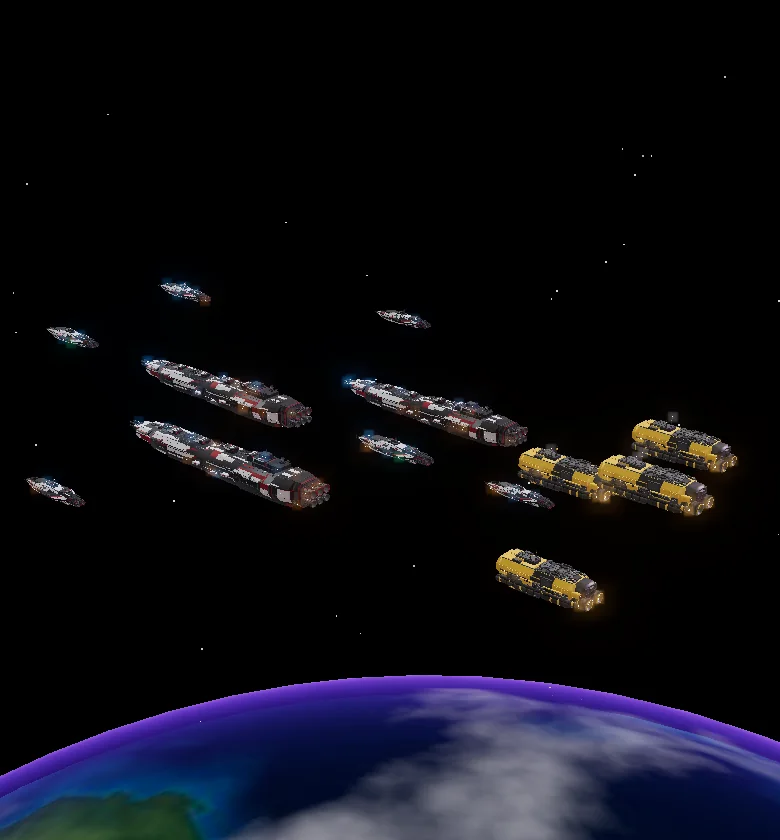
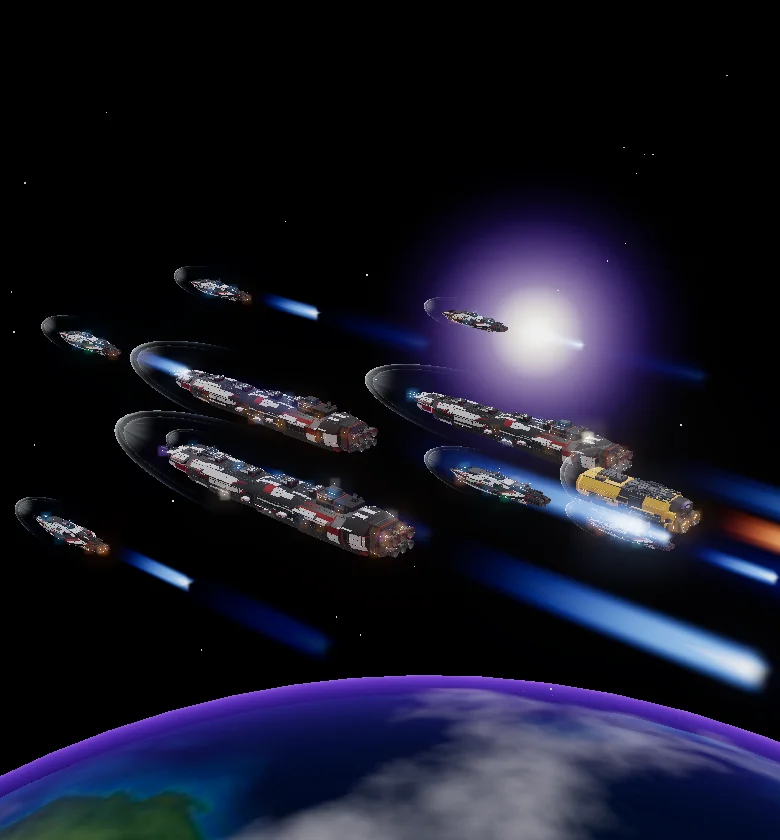
Site : flotte en vol (un seul tanker, halos de choc, traînées de réacteur) avec soleil à contre-jour
Claude-Session: https://claude.ai/code/session_01JwVMoGh2JMgLgKoMzT7wbx

Changed region(s): [[0.0308, 0.2167, 1.0, 0.8357], [0.0, 0.5571, 0.2462, 0.7119], [0.2769, 0.7119, 0.4308, 0.8048]]

diff --git a/site/index.html b/site/index.html
@@ -798,6 +798,81 @@ function starfield(n, r) {
   return new THREE.Points(g, new THREE.PointsMaterial({ size: 1.6, sizeAttenuation: false, vertexColors: true, transparent: true, opacity: 0.9, depthWrite: false }));
 }
 
+
+// ---------- Effets de vol (inspirés des fiches vaisseaux du jeu) ----------
+const FX_T = { value: 0 };
+const FX_COL = {
+  blue:   { core: new THREE.Color(0xe6f3ff), mid: new THREE.Color(0x6fa8ff), edge: new THREE.Color(0x2a5cff) },
+  orange: { core: new THREE.Color(0xfff2d8), mid: new THREE.Color(0xffa060), edge: new THREE.Color(0xff5a1a) },
+};
+function shockMaterial(gain) {
+  return new THREE.ShaderMaterial({
+    transparent: true, depthWrite: false, blending: THREE.AdditiveBlending, side: THREE.DoubleSide,
+    uniforms: { uTime: FX_T, uGain: { value: gain } },
+    vertexShader: 'varying vec3 vP; varying vec3 vN; varying vec3 vV; void main(){ vP = position; vec4 mv = modelViewMatrix*vec4(position,1.0); vN = normalize(normalMatrix*normal); vV = normalize(-mv.xyz); gl_Position = projectionMatrix*mv; }',
+    fragmentShader: `uniform float uTime, uGain; varying vec3 vP; varying vec3 vN; varying vec3 vV;
+      float h(vec2 p){ return fract(sin(dot(p, vec2(12.9898,78.233)))*43758.5453); }
+      float n(vec2 p){ vec2 i=floor(p), f=fract(p); f=f*f*(3.0-2.0*f); return mix(mix(h(i),h(i+vec2(1,0)),f.x),mix(h(i+vec2(0,1)),h(i+vec2(1,1)),f.x),f.y); }
+      void main(){
+        float z = vP.z;                                   // +1 = proue, -1 = poupe (sphère unité)
+        float fres = pow(1.0 - abs(dot(normalize(vN), normalize(vV))), 2.2);
+        float nose = smoothstep(0.2, 1.0, z);
+        float ang = atan(vP.y, vP.x);
+        float streak = n(vec2(ang*6.0, z*3.0 + uTime*2.2));
+        float front = smoothstep(-0.1, 0.95, z);           // l'onde de choc vit à l'avant, s'efface vers le milieu
+        float inten = (pow(fres, 1.6) * front + smoothstep(0.82, 1.0, z) * 0.7) * (0.55 + 0.6*streak);
+        vec3 hot = vec3(0.9,0.95,1.0), blue = vec3(0.35,0.55,1.0), vio = vec3(0.58,0.22,1.0);
+        vec3 col = mix(mix(blue, hot, nose), vio, smoothstep(0.2, -0.8, z));
+        float a = uGain * inten;
+        gl_FragColor = vec4(col*a, a);
+      }`
+  });
+}
+function plumeMaterial(pal, gain) {
+  return new THREE.ShaderMaterial({
+    transparent: true, depthWrite: false, blending: THREE.AdditiveBlending, side: THREE.DoubleSide,
+    uniforms: { uTime: FX_T, uGain: { value: gain }, uCore: { value: pal.core }, uMid: { value: pal.mid }, uEdge: { value: pal.edge }, uSeed: { value: Math.random()*10.0 } },
+    vertexShader: 'varying vec2 vUv; void main(){ vUv = uv; gl_Position = projectionMatrix*modelViewMatrix*vec4(position,1.0); }',
+    fragmentShader: `uniform float uTime, uGain, uSeed; uniform vec3 uCore, uMid, uEdge; varying vec2 vUv;
+      void main(){
+        float t = vUv.y;                                  // 0 = tuyère, 1 = bout de la traînée
+        float r = abs(vUv.x - 0.5) * 2.0;                 // 0 = axe, 1 = bord
+        float flick = 0.85 + 0.15*sin(uTime*23.0 + uSeed) * sin(uTime*7.0 + uSeed*3.0);
+        float body = smoothstep(0.0, 0.07, t) * (1.0 - smoothstep(0.0, 1.0, t)) * (1.0 - smoothstep(0.15 + 0.6*t, 1.0, r));
+        vec3 col = mix(mix(uCore, uMid, smoothstep(0.0, 0.25, t + r*0.3)), uEdge, smoothstep(0.3, 0.9, t + r*0.2));
+        float a = uGain * body * flick;
+        gl_FragColor = vec4(col*a, a);
+      }`
+  });
+}
+function glowSprite(color, size) {
+  const c = document.createElement('canvas'); c.width = c.height = 256;
+  const g = c.getContext('2d'), r = g.createRadialGradient(128,128,0,128,128,128);
+  r.addColorStop(0, 'rgba(255,255,255,1)'); r.addColorStop(0.08, 'rgba(255,246,232,0.95)');
+  r.addColorStop(0.25, 'rgba(214,190,255,0.35)'); r.addColorStop(0.6, 'rgba(128,84,217,0.08)'); r.addColorStop(1, 'rgba(0,0,0,0)');
+  g.fillStyle = r; g.fillRect(0,0,256,256);
+  const tex = new THREE.CanvasTexture(c); tex.colorSpace = THREE.SRGBColorSpace;
+  const sp = new THREE.Sprite(new THREE.SpriteMaterial({ map: tex, color, blending: THREE.AdditiveBlending, depthWrite: false, transparent: true }));
+  sp.scale.setScalar(size); return sp;
+}
+function flightFx(L, w, hgt, pal) {
+  const g = new THREE.Group();
+  const sph = new THREE.SphereGeometry(1, 48, 24);
+  const outer = new THREE.Mesh(sph, shockMaterial(0.5));
+  outer.scale.set(w*0.78, hgt*0.85, L*0.66); outer.position.z = L*0.06;
+  const inner = new THREE.Mesh(sph, shockMaterial(0.25));
+  inner.scale.set(w*0.66, hgt*0.72, L*0.6); inner.position.z = L*0.08;
+  g.add(outer, inner);
+  // traînée : deux plans croisés (lisibles sous tous les angles), pointe vers l'arrière
+  const len = L*1.15, wid = Math.max(w, hgt)*0.85;
+  const pg = new THREE.PlaneGeometry(wid, len); pg.translate(0, -len/2, 0); pg.rotateX(Math.PI/2);  // s'étire vers -z
+  for (let i = 0; i < 2; i++) { const m = new THREE.Mesh(pg, plumeMaterial(pal, 0.9)); m.rotation.z = i*Math.PI/2; m.position.z = -L*0.48; g.add(m); }
+  const tail = new THREE.PlaneGeometry(wid*2.2, len*2.4); tail.translate(0, -len*1.2, 0); tail.rotateX(Math.PI/2);
+  for (let i = 0; i < 2; i++) { const m = new THREE.Mesh(tail, plumeMaterial({ core: pal.mid, mid: pal.edge, edge: new THREE.Color(0x3a1f7a) }, 0.25)); m.rotation.z = i*Math.PI/2; m.position.z = -L*0.5; g.add(m); }
+  g.traverse(o => { if (o.isMesh) { o.renderOrder = 2; o.frustumCulled = false; } });
+  return g;
+}
+
 class Viewer {
   constructor(host, opts = {}) {
     this.o = Object.assign({ bloom: 0.55, rotate: 0.35, view: [1, 0.32, 1.15], fit: 0.82, stars: true, zoom: false, exposure: 1.0, offsetX: 0 }, opts);
@@ -858,7 +933,9 @@ class Viewer {
     const t = performance.now() / 1000;
     if (this.o.sway) { this.pivot.rotation.y = Math.sin(t * 0.18) * this.o.sway; this.pivot.position.y = Math.sin(t * 0.35) * this.radius * 0.015; }
     if (this.planet) this.planet.rotation.y = t * 0.004;
-    if (this.fleet && this.o.sway) this.fleet.children.forEach(h => { h.position.y += Math.sin(t * 0.5 + h.userData.bob) * 0.0015 * this.radius / 40; });
+    FX_T.value = t;
+    if (this.fleet && this.o.sway) this.fleet.children.forEach(h => { if (!h.userData.follow) h.position.y += Math.sin(t * 0.5 + h.userData.bob) * 0.0015 * this.radius / 40; });
+    if (this.fleet) this.fleet.children.forEach(h => { const f = h.userData.follow; if (f) h.position.copy(f.position); });
     if (this.clouds) this.clouds.rotation.y = t * 0.006;
     this.controls.update(); this.composer.render();
   }
@@ -913,6 +990,28 @@ class Viewer {
     this.key.position.copy(sun).multiplyScalar(10);
     cam.far = Math.max(cam.far, (p.z + p.size * 2) * r * 3); cam.updateProjectionMatrix();
   }
+  placeBacklight() {
+    const b = this.o.backlight; if (!b) return;
+    const r = this.radius, cam = this.camera, tgt = this.controls.target;
+    const fwd = tgt.clone().sub(cam.position).normalize();
+    const right = fwd.clone().cross(cam.up).normalize();
+    const up = right.clone().cross(fwd).normalize();
+    // soleil derrière la flotte, légèrement au-dessus et à droite : il découpe les coques
+    const dir = fwd.clone().multiplyScalar(1).addScaledVector(up, b.up ?? 0.28).addScaledVector(right, b.right ?? 0.22).normalize();
+    if (!this.backLight) {
+      this.backLight = new THREE.DirectionalLight(0xfff0dc, b.power ?? 6.0);
+      this.rimLight = new THREE.DirectionalLight(0xb48cff, (b.power ?? 6.0) * 0.45);
+      this.scene.add(this.backLight, this.backLight.target, this.rimLight, this.rimLight.target);
+      this.sun = glowSprite(0xffffff, 1); this.sun.renderOrder = -1; this.scene.add(this.sun);
+      this.key.intensity = 0.9;            // face au soleil, les flancs restent sombres : silhouettes
+    }
+    this.backLight.position.copy(tgt).addScaledVector(dir, r * 10); this.backLight.target.position.copy(tgt);
+    const dir2 = dir.clone().addScaledVector(right, -0.6).normalize();
+    this.rimLight.position.copy(tgt).addScaledVector(dir2, r * 10); this.rimLight.target.position.copy(tgt);
+    const dist = cam.position.distanceTo(tgt) * 6;
+    this.sun.position.copy(cam.position).addScaledVector(dir, dist);
+    this.sun.scale.setScalar(dist * (b.size ?? 0.55));
+  }
   place() {
     const fov = this.camera.fov * Math.PI / 180;
     const fitH = this.radius / Math.sin(fov / 2);
@@ -927,6 +1026,7 @@ class Viewer {
     if (this.stars) this.stars.scale.setScalar(Math.max(1, d * 8 / 1500));
     this.controls.update();
     this.placePlanet();
+    this.placeBacklight();
   }
   async show(url, view) {
     const token = (this._tok = Symbol());
@@ -966,7 +1066,8 @@ class Viewer {
     const norm = new Map();
     for (const [u, src] of byUrl) {
       const box = new THREE.Box3().setFromObject(src);
-      norm.set(u, { ctr: box.getCenter(new THREE.Vector3()), len: box.max.z - box.min.z });
+      const sz = box.getSize(new THREE.Vector3());
+      norm.set(u, { ctr: box.getCenter(new THREE.Vector3()), len: sz.z, rw: sz.x / sz.z, rh: sz.y / sz.z });
     }
     for (const it of items) {
       const n = norm.get(it.url);
@@ -980,8 +1081,14 @@ class Viewer {
       holder.rotation.y = it.yaw || 0;
       holder.userData.bob = Math.random() * Math.PI * 2;
       fleet.add(holder);
+      if (this.o.fx) {
+        const fx = flightFx(it.len, it.len * n.rw, it.len * n.rh, FX_COL[it.fx || 'blue']);
+        fx.position.copy(holder.position); fx.rotation.copy(holder.rotation);
+        fx.userData.follow = holder;
+        fleet.add(fx);
+      }
     }
-    const box = new THREE.Box3().setFromObject(fleet);
+    const box = new THREE.Box3(); fleet.children.forEach(c => { if (!c.userData.follow) box.expandByObject(c); });
     fleet.position.sub(box.getCenter(new THREE.Vector3()));
     this.pivot.add(fleet);
     this.fleet = fleet;
@@ -1036,8 +1143,9 @@ const stage = document.getElementById('hero-stage');
 if (webgl) {
   try {
     const wide = matchMedia('(min-width: 821px)').matches;
-    const FLEET = [{"url": "3d/sb_kv01_lod.glb", "len": 10, "pos": [0, 0, 0]}, {"url": "3d/sb_kv01_lod.glb", "len": 10, "pos": [-7, -1.5, -6]}, {"url": "3d/sb_kv01_lod.glb", "len": 10, "pos": [6.5, 1, -7]}, {"url": "3d/sb_sr01_lod.glb", "len": 3.4, "pos": [-3.5, 2.2, 6]}, {"url": "3d/sb_sr01_lod.glb", "len": 3.4, "pos": [3.5, 2, 5.5]}, {"url": "3d/sb_sr01_lod.glb", "len": 3.4, "pos": [-11, 0.5, -1]}, {"url": "3d/sb_sr01_lod.glb", "len": 3.4, "pos": [10.5, -0.5, -2]}, {"url": "3d/sb_sr01_lod.glb", "len": 3.4, "pos": [0, -3, 3]}, {"url": "3d/sb_sr01_lod.glb", "len": 3.4, "pos": [-4, -2.5, -13]}, {"url": "3d/sb_sr01_lod.glb", "len": 3.4, "pos": [5, 2.8, -14]}, {"url": "3d/sb_tk07_lod.glb", "len": 3.8, "pos": [-1.5, 0.5, -17]}, {"url": "3d/sb_tk07_lod.glb", "len": 3.8, "pos": [2.5, -1.5, -19]}, {"url": "3d/sb_tk07_lod.glb", "len": 3.8, "pos": [-4.5, 1.5, -20]}, {"url": "3d/sb_tk07_lod.glb", "len": 3.8, "pos": [1, 2.5, -22]}];
-    const hv = new Viewer(stage, { rotate: 0, sway: calm ? 0 : 0.035, bloom: 0.5, view: [1.0, 0.55, -0.85], fit: wide ? 0.58 : 0.78, offsetX: wide ? -0.5 : 0.08,
+    const FLEET = [{"url": "3d/sb_kv01_lod.glb", "len": 10, "pos": [0, 0, 0]}, {"url": "3d/sb_kv01_lod.glb", "len": 10, "pos": [-7, -1.5, -6]}, {"url": "3d/sb_kv01_lod.glb", "len": 10, "pos": [6.5, 1, -7]}, {"url": "3d/sb_sr01_lod.glb", "len": 3.4, "pos": [-3.5, 2.2, 6]}, {"url": "3d/sb_sr01_lod.glb", "len": 3.4, "pos": [3.5, 2, 5.5]}, {"url": "3d/sb_sr01_lod.glb", "len": 3.4, "pos": [-11, 0.5, -1]}, {"url": "3d/sb_sr01_lod.glb", "len": 3.4, "pos": [10.5, -0.5, -2]}, {"url": "3d/sb_sr01_lod.glb", "len": 3.4, "pos": [0, -3, 3]}, {"url": "3d/sb_sr01_lod.glb", "len": 3.4, "pos": [-4, -2.5, -13]}, {"url": "3d/sb_sr01_lod.glb", "len": 3.4, "pos": [5, 2.8, -14]}, {"url": "3d/sb_tk07_lod.glb", "len": 3.8, "pos": [-1, 0.5, -15], "fx": "orange"}];
+    const hv = new Viewer(stage, { rotate: 0, sway: calm ? 0 : 0.035, fx: true, bloom: 0.5, view: [1.0, 0.55, -0.85], fit: wide ? 0.58 : 0.78, offsetX: wide ? -0.5 : 0.08,
+      backlight: wide ? { power: 7, up: 0.16, right: 0.3, size: 0.3 } : { power: 7, up: 0.06, right: 0.1, size: 0.26 },
       planet: wide ? { size: 5, x: 1.3, y: -5.7, z: 4, sx: 0.6, sy: 0.5, sz: 0.25 } : { size: 5, x: 0.2, y: -6.4, z: 4, sx: 0.6, sy: 0.5, sz: 0.25 } });
     hv.controls.enabled = false; hv.renderer.domElement.style.touchAction = 'auto';
     hv.addPlanet({ albedo: '3d/kerath_albedo.jpg', lights: '3d/kerath_lights.jpg', clouds: '3d/kerath_clouds.jpg' });

diff --git a/site/_src/viewer.js b/site/_src/viewer.js
@@ -30,6 +30,81 @@ function starfield(n, r) {
   return new THREE.Points(g, new THREE.PointsMaterial({ size: 1.6, sizeAttenuation: false, vertexColors: true, transparent: true, opacity: 0.9, depthWrite: false }));
 }
 
+
+// ---------- Effets de vol (inspirés des fiches vaisseaux du jeu) ----------
+const FX_T = { value: 0 };
+const FX_COL = {
+  blue:   { core: new THREE.Color(0xe6f3ff), mid: new THREE.Color(0x6fa8ff), edge: new THREE.Color(0x2a5cff) },
+  orange: { core: new THREE.Color(0xfff2d8), mid: new THREE.Color(0xffa060), edge: new THREE.Color(0xff5a1a) },
+};
+function shockMaterial(gain) {
+  return new THREE.ShaderMaterial({
+    transparent: true, depthWrite: false, blending: THREE.AdditiveBlending, side: THREE.DoubleSide,
+    uniforms: { uTime: FX_T, uGain: { value: gain } },
+    vertexShader: 'varying vec3 vP; varying vec3 vN; varying vec3 vV; void main(){ vP = position; vec4 mv = modelViewMatrix*vec4(position,1.0); vN = normalize(normalMatrix*normal); vV = normalize(-mv.xyz); gl_Position = projectionMatrix*mv; }',
+    fragmentShader: `uniform float uTime, uGain; varying vec3 vP; varying vec3 vN; varying vec3 vV;
+      float h(vec2 p){ return fract(sin(dot(p, vec2(12.9898,78.233)))*43758.5453); }
+      float n(vec2 p){ vec2 i=floor(p), f=fract(p); f=f*f*(3.0-2.0*f); return mix(mix(h(i),h(i+vec2(1,0)),f.x),mix(h(i+vec2(0,1)),h(i+vec2(1,1)),f.x),f.y); }
+      void main(){
+        float z = vP.z;                                   // +1 = proue, -1 = poupe (sphère unité)
+        float fres = pow(1.0 - abs(dot(normalize(vN), normalize(vV))), 2.2);
+        float nose = smoothstep(0.2, 1.0, z);
+        float ang = atan(vP.y, vP.x);
+        float streak = n(vec2(ang*6.0, z*3.0 + uTime*2.2));
+        float front = smoothstep(-0.1, 0.95, z);           // l'onde de choc vit à l'avant, s'efface vers le milieu
+        float inten = (pow(fres, 1.6) * front + smoothstep(0.82, 1.0, z) * 0.7) * (0.55 + 0.6*streak);
+        vec3 hot = vec3(0.9,0.95,1.0), blue = vec3(0.35,0.55,1.0), vio = vec3(0.58,0.22,1.0);
+        vec3 col = mix(mix(blue, hot, nose), vio, smoothstep(0.2, -0.8, z));
+        float a = uGain * inten;
+        gl_FragColor = vec4(col*a, a);
+      }`
+  });
+}
+function plumeMaterial(pal, gain) {
+  return new THREE.ShaderMaterial({
+    transparent: true, depthWrite: false, blending: THREE.AdditiveBlending, side: THREE.DoubleSide,
+    uniforms: { uTime: FX_T, uGain: { value: gain }, uCore: { value: pal.core }, uMid: { value: pal.mid }, uEdge: { value: pal.edge }, uSeed: { value: Math.random()*10.0 } },
+    vertexShader: 'varying vec2 vUv; void main(){ vUv = uv; gl_Position = projectionMatrix*modelViewMatrix*vec4(position,1.0); }',
+    fragmentShader: `uniform float uTime, uGain, uSeed; uniform vec3 uCore, uMid, uEdge; varying vec2 vUv;
+      void main(){
+        float t = vUv.y;                                  // 0 = tuyère, 1 = bout de la traînée
+        float r = abs(vUv.x - 0.5) * 2.0;                 // 0 = axe, 1 = bord
+        float flick = 0.85 + 0.15*sin(uTime*23.0 + uSeed) * sin(uTime*7.0 + uSeed*3.0);
+        float body = smoothstep(0.0, 0.07, t) * (1.0 - smoothstep(0.0, 1.0, t)) * (1.0 - smoothstep(0.15 + 0.6*t, 1.0, r));
+        vec3 col = mix(mix(uCore, uMid, smoothstep(0.0, 0.25, t + r*0.3)), uEdge, smoothstep(0.3, 0.9, t + r*0.2));
+        float a = uGain * body * flick;
+        gl_FragColor = vec4(col*a, a);
+      }`
+  });
+}
+function glowSprite(color, size) {
+  const c = document.createElement('canvas'); c.width = c.height = 256;
+  const g = c.getContext('2d'), r = g.createRadialGradient(128,128,0,128,128,128);
+  r.addColorStop(0, 'rgba(255,255,255,1)'); r.addColorStop(0.08, 'rgba(255,246,232,0.95)');
+  r.addColorStop(0.25, 'rgba(214,190,255,0.35)'); r.addColorStop(0.6, 'rgba(128,84,217,0.08)'); r.addColorStop(1, 'rgba(0,0,0,0)');
+  g.fillStyle = r; g.fillRect(0,0,256,256);
+  const tex = new THREE.CanvasTexture(c); tex.colorSpace = THREE.SRGBColorSpace;
+  const sp = new THREE.Sprite(new THREE.SpriteMaterial({ map: tex, color, blending: THREE.AdditiveBlending, depthWrite: false, transparent: true }));
+  sp.scale.setScalar(size); return sp;
+}
+function flightFx(L, w, hgt, pal) {
+  const g = new THREE.Group();
+  const sph = new THREE.SphereGeometry(1, 48, 24);
+  const outer = new THREE.Mesh(sph, shockMaterial(0.5));
+  outer.scale.set(w*0.78, hgt*0.85, L*0.66); outer.position.z = L*0.06;
+  const inner = new THREE.Mesh(sph, shockMaterial(0.25));
+  inner.scale.set(w*0.66, hgt*0.72, L*0.6); inner.position.z = L*0.08;
+  g.add(outer, inner);
+  // traînée : deux plans croisés (lisibles sous tous les angles), pointe vers l'arrière
+  const len = L*1.15, wid = Math.max(w, hgt)*0.85;
+  const pg = new THREE.PlaneGeometry(wid, len); pg.translate(0, -len/2, 0); pg.rotateX(Math.PI/2);  // s'étire vers -z
+  for (let i = 0; i < 2; i++) { const m = new THREE.Mesh(pg, plumeMaterial(pal, 0.9)); m.rotation.z = i*Math.PI/2; m.position.z = -L*0.48; g.add(m); }
+  const tail = new THREE.PlaneGeometry(wid*2.2, len*2.4); tail.translate(0, -len*1.2, 0); tail.rotateX(Math.PI/2);
+  for (let i = 0; i < 2; i++) { const m = new THREE.Mesh(tail, plumeMaterial({ core: pal.mid, mid: pal.edge, edge: new THREE.Color(0x3a1f7a) }, 0.25)); m.rotation.z = i*Math.PI/2; m.position.z = -L*0.5; g.add(m); }
+  g.traverse(o => { if (o.isMesh) { o.renderOrder = 2; o.frustumCulled = false; } });
+  return g;
+}
+
 export class Viewer {
   constructor(host, opts = {}) {
     this.o = Object.assign({ bloom: 0.55, rotate: 0.35, view: [1, 0.32, 1.15], fit: 0.82, stars: true, zoom: false, exposure: 1.0, offsetX: 0 }, opts);
@@ -90,7 +165,9 @@ export class Viewer {
     const t = performance.now() / 1000;
     if (this.o.sway) { this.pivot.rotation.y = Math.sin(t * 0.18) * this.o.sway; this.pivot.position.y = Math.sin(t * 0.35) * this.radius * 0.015; }
     if (this.planet) this.planet.rotation.y = t * 0.004;
-    if (this.fleet && this.o.sway) this.fleet.children.forEach(h => { h.position.y += Math.sin(t * 0.5 + h.userData.bob) * 0.0015 * this.radius / 40; });
+    FX_T.value = t;
+    if (this.fleet && this.o.sway) this.fleet.children.forEach(h => { if (!h.userData.follow) h.position.y += Math.sin(t * 0.5 + h.userData.bob) * 0.0015 * this.radius / 40; });
+    if (this.fleet) this.fleet.children.forEach(h => { const f = h.userData.follow; if (f) h.position.copy(f.position); });
     if (this.clouds) this.clouds.rotation.y = t * 0.006;
     this.controls.update(); this.composer.render();
   }
@@ -145,6 +222,28 @@ export class Viewer {
     this.key.position.copy(sun).multiplyScalar(10);
     cam.far = Math.max(cam.far, (p.z + p.size * 2) * r * 3); cam.updateProjectionMatrix();
   }
+  placeBacklight() {
+    const b = this.o.backlight; if (!b) return;
+    const r = this.radius, cam = this.camera, tgt = this.controls.target;
+    const fwd = tgt.clone().sub(cam.position).normalize();
+    const right = fwd.clone().cross(cam.up).normalize();
+    const up = right.clone().cross(fwd).normalize();
+    // soleil derrière la flotte, légèrement au-dessus et à droite : il découpe les coques
+    const dir = fwd.clone().multiplyScalar(1).addScaledVector(up, b.up ?? 0.28).addScaledVector(right, b.right ?? 0.22).normalize();
+    if (!this.backLight) {
+      this.backLight = new THREE.DirectionalLight(0xfff0dc, b.power ?? 6.0);
+      this.rimLight = new THREE.DirectionalLight(0xb48cff, (b.power ?? 6.0) * 0.45);
+      this.scene.add(this.backLight, this.backLight.target, this.rimLight, this.rimLight.target);
+      this.sun = glowSprite(0xffffff, 1); this.sun.renderOrder = -1; this.scene.add(this.sun);
+      this.key.intensity = 0.9;            // face au soleil, les flancs restent sombres : silhouettes
+    }
+    this.backLight.position.copy(tgt).addScaledVector(dir, r * 10); this.backLight.target.position.copy(tgt);
+    const dir2 = dir.clone().addScaledVector(right, -0.6).normalize();
+    this.rimLight.position.copy(tgt).addScaledVector(dir2, r * 10); this.rimLight.target.position.copy(tgt);
+    const dist = cam.position.distanceTo(tgt) * 6;
+    this.sun.position.copy(cam.position).addScaledVector(dir, dist);
+    this.sun.scale.setScalar(dist * (b.size ?? 0.55));
+  }
   place() {
     const fov = this.camera.fov * Math.PI / 180;
     const fitH = this.radius / Math.sin(fov / 2);
@@ -159,6 +258,7 @@ export class Viewer {
     if (this.stars) this.stars.scale.setScalar(Math.max(1, d * 8 / 1500));
     this.controls.update();
     this.placePlanet();
+    this.placeBacklight();
   }
   async show(url, view) {
     const token = (this._tok = Symbol());
@@ -198,7 +298,8 @@ export class Viewer {
     const norm = new Map();
     for (const [u, src] of byUrl) {
       const box = new THREE.Box3().setFromObject(src);
-      norm.set(u, { ctr: box.getCenter(new THREE.Vector3()), len: box.max.z - box.min.z });
+      const sz = box.getSize(new THREE.Vector3());
+      norm.set(u, { ctr: box.getCenter(new THREE.Vector3()), len: sz.z, rw: sz.x / sz.z, rh: sz.y / sz.z });
     }
     for (const it of items) {
       const n = norm.get(it.url);
@@ -212,8 +313,14 @@ export class Viewer {
       holder.rotation.y = it.yaw || 0;
       holder.userData.bob = Math.random() * Math.PI * 2;
       fleet.add(holder);
+      if (this.o.fx) {
+        const fx = flightFx(it.len, it.len * n.rw, it.len * n.rh, FX_COL[it.fx || 'blue']);
+        fx.position.copy(holder.position); fx.rotation.copy(holder.rotation);
+        fx.userData.follow = holder;
+        fleet.add(fx);
+      }
     }
-    const box = new THREE.Box3().setFromObject(fleet);
+    const box = new THREE.Box3(); fleet.children.forEach(c => { if (!c.userData.follow) box.expandByObject(c); });
     fleet.position.sub(box.getCenter(new THREE.Vector3()));
     this.pivot.add(fleet);
     this.fleet = fleet;

diff --git a/site/_src/index.src.html b/site/_src/index.src.html
@@ -799,8 +799,9 @@ const stage = document.getElementById('hero-stage');
 if (webgl) {
   try {
     const wide = matchMedia('(min-width: 821px)').matches;
-    const FLEET = [{"url": "3d/sb_kv01_lod.glb", "len": 10, "pos": [0, 0, 0]}, {"url": "3d/sb_kv01_lod.glb", "len": 10, "pos": [-7, -1.5, -6]}, {"url": "3d/sb_kv01_lod.glb", "len": 10, "pos": [6.5, 1, -7]}, {"url": "3d/sb_sr01_lod.glb", "len": 3.4, "pos": [-3.5, 2.2, 6]}, {"url": "3d/sb_sr01_lod.glb", "len": 3.4, "pos": [3.5, 2, 5.5]}, {"url": "3d/sb_sr01_lod.glb", "len": 3.4, "pos": [-11, 0.5, -1]}, {"url": "3d/sb_sr01_lod.glb", "len": 3.4, "pos": [10.5, -0.5, -2]}, {"url": "3d/sb_sr01_lod.glb", "len": 3.4, "pos": [0, -3, 3]}, {"url": "3d/sb_sr01_lod.glb", "len": 3.4, "pos": [-4, -2.5, -13]}, {"url": "3d/sb_sr01_lod.glb", "len": 3.4, "pos": [5, 2.8, -14]}, {"url": "3d/sb_tk07_lod.glb", "len": 3.8, "pos": [-1.5, 0.5, -17]}, {"url": "3d/sb_tk07_lod.glb", "len": 3.8, "pos": [2.5, -1.5, -19]}, {"url": "3d/sb_tk07_lod.glb", "len": 3.8, "pos": [-4.5, 1.5, -20]}, {"url": "3d/sb_tk07_lod.glb", "len": 3.8, "pos": [1, 2.5, -22]}];
-    const hv = new Viewer(stage, { rotate: 0, sway: calm ? 0 : 0.035, bloom: 0.5, view: [1.0, 0.55, -0.85], fit: wide ? 0.58 : 0.78, offsetX: wide ? -0.5 : 0.08,
+    const FLEET = [{"url": "3d/sb_kv01_lod.glb", "len": 10, "pos": [0, 0, 0]}, {"url": "3d/sb_kv01_lod.glb", "len": 10, "pos": [-7, -1.5, -6]}, {"url": "3d/sb_kv01_lod.glb", "len": 10, "pos": [6.5, 1, -7]}, {"url": "3d/sb_sr01_lod.glb", "len": 3.4, "pos": [-3.5, 2.2, 6]}, {"url": "3d/sb_sr01_lod.glb", "len": 3.4, "pos": [3.5, 2, 5.5]}, {"url": "3d/sb_sr01_lod.glb", "len": 3.4, "pos": [-11, 0.5, -1]}, {"url": "3d/sb_sr01_lod.glb", "len": 3.4, "pos": [10.5, -0.5, -2]}, {"url": "3d/sb_sr01_lod.glb", "len": 3.4, "pos": [0, -3, 3]}, {"url": "3d/sb_sr01_lod.glb", "len": 3.4, "pos": [-4, -2.5, -13]}, {"url": "3d/sb_sr01_lod.glb", "len": 3.4, "pos": [5, 2.8, -14]}, {"url": "3d/sb_tk07_lod.glb", "len": 3.8, "pos": [-1, 0.5, -15], "fx": "orange"}];
+    const hv = new Viewer(stage, { rotate: 0, sway: calm ? 0 : 0.035, fx: true, bloom: 0.5, view: [1.0, 0.55, -0.85], fit: wide ? 0.58 : 0.78, offsetX: wide ? -0.5 : 0.08,
+      backlight: wide ? { power: 7, up: 0.16, right: 0.3, size: 0.3 } : { power: 7, up: 0.06, right: 0.1, size: 0.26 },
       planet: wide ? { size: 5, x: 1.3, y: -5.7, z: 4, sx: 0.6, sy: 0.5, sz: 0.25 } : { size: 5, x: 0.2, y: -6.4, z: 4, sx: 0.6, sy: 0.5, sz: 0.25 } });
     hv.controls.enabled = false; hv.renderer.domElement.style.touchAction = 'auto';
     hv.addPlanet({ albedo: '3d/kerath_albedo.jpg', lights: '3d/kerath_lights.jpg', clouds: '3d/kerath_clouds.jpg' });
